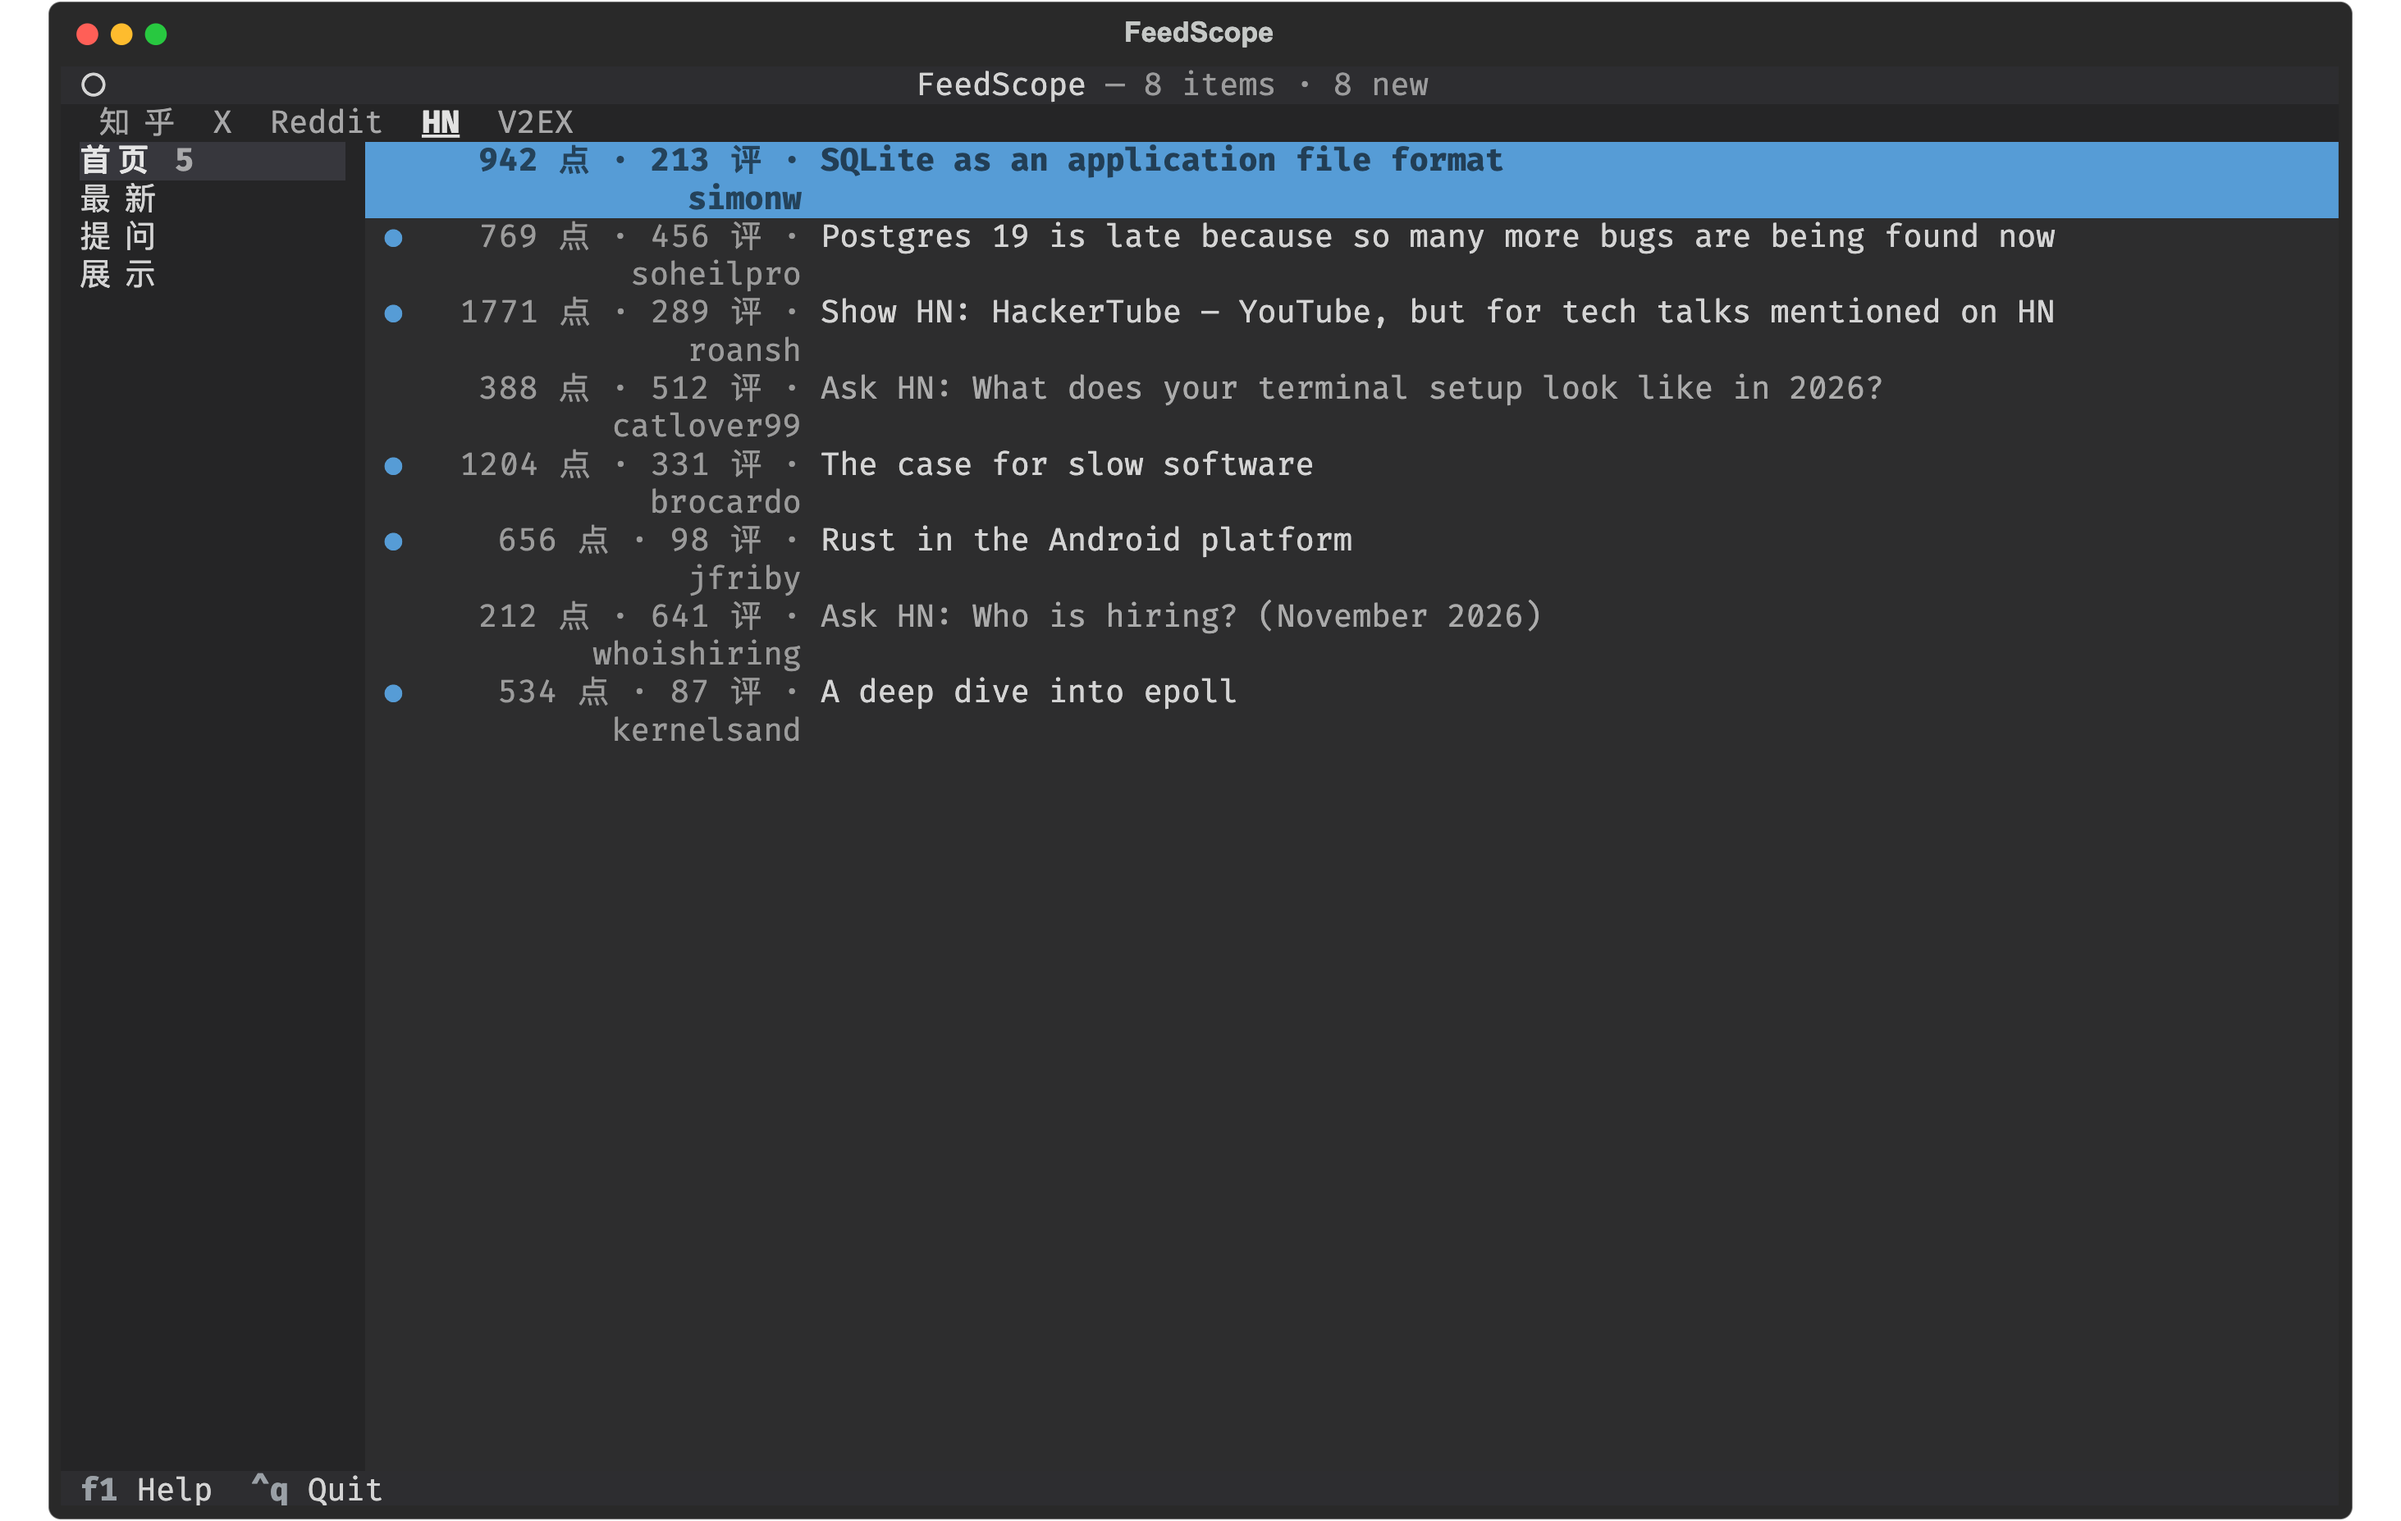
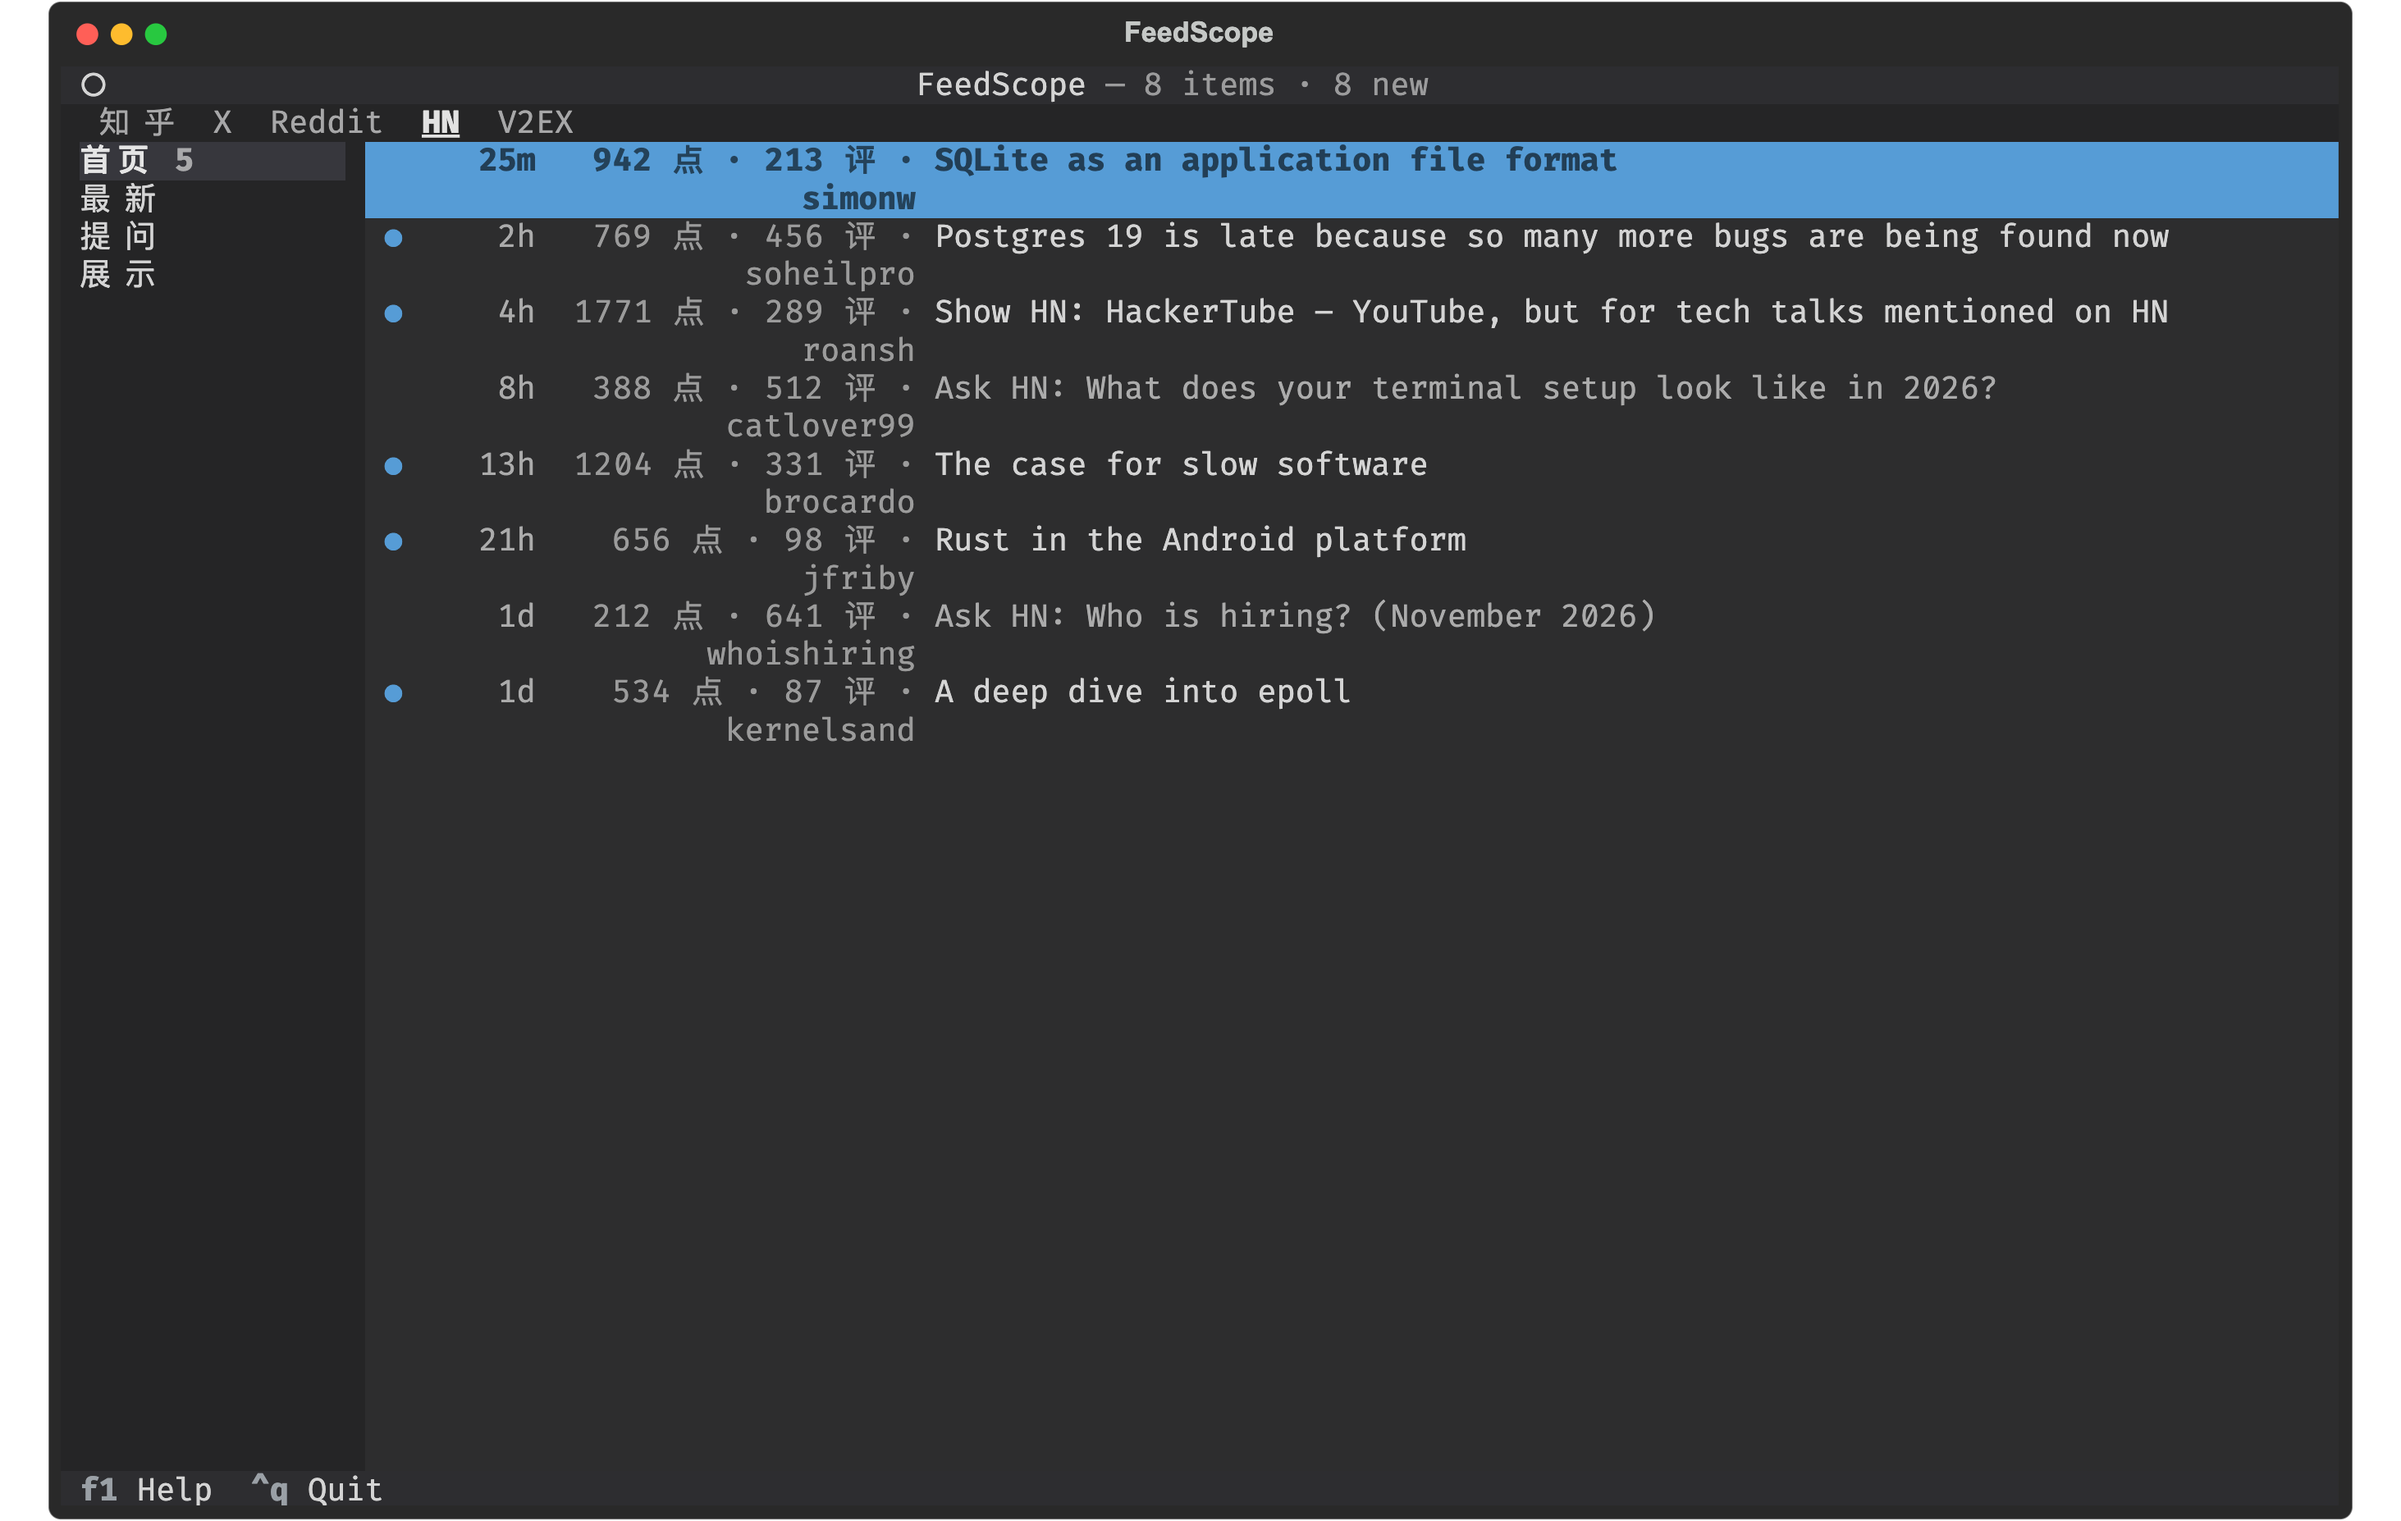
测试补齐两件 + 发版 0.4.0。测试盲区：answer 屏评论首载失败路径（0.3.1 修的就是这条链路别吞信号，但失败态 UI 从没有过钉子）与详情屏换篇到边反馈——前者当场逮到一个潜伏真 bug：_swap_status 把部件 id 当 CSS 选择器传（"cm-loading" 漏了 #），评论失败动线的行内重试提示第一次换文案就把 worker 炸成 InvalidQueryFormat——0.3.1 上线以来这个失败态只在 resize 重绘时才可见，就地修复（失败文案常驻 + Ctrl+N 重试回正常 loader 有端到端钉子了）；到边反馈钉住「最后一篇再 → toast 

Changed region(s): [[0.1866, 0.0922, 0.9019, 0.4919], [0.1866, 0.2767, 0.2177, 0.3074]]

diff --git a/tests/test_tui_smoke.py b/tests/test_tui_smoke.py
@@ -19,7 +19,7 @@ from typing import ClassVar
 import pytest
 from conftest import last_notification, settle
 from textual.containers import VerticalScroll
-from textual.widgets import ListItem, Markdown, SelectionList
+from textual.widgets import ListItem, Markdown, SelectionList, Static
 
 import feedscope.sources  # noqa: F401  先触发真实源注册
 from feedscope.core.models import Answer, Comment, DetailDoc, FeedItem
@@ -1245,3 +1245,69 @@ def test_detail_initially_done_shows_eof(stub_registry, monkeypatch) -> None:
 
 def test_prelayout_render_recovers_on_first_resize(stub_registry) -> None:
     asyncio.run(_run_prelayout_render_recovery_flow())
+
+
+def test_answer_comments_failure_and_retry(stub_registry, monkeypatch) -> None:
+    """评论首载失败（0.3.1 修的就是这条链路别吞信号）：失败文案常驻 + Ctrl+N 重试
+    换回正常 loader——评论层失败不连带楼层内容消失。"""
+    asyncio.run(_run_answer_comments_failure(monkeypatch))
+
+
+async def _run_answer_comments_failure(monkeypatch) -> None:
+    from feedscope.core.source import SourceError
+
+    calls = {"n": 0}
+
+    async def flaky_comments(self, index: int):
+        calls["n"] += 1
+        if calls["n"] == 1:
+            raise SourceError("评论接口 403")
+        return StubCommentsLoader()
+
+    monkeypatch.setattr(StubDetailLoader, "open_comments", flaky_comments)
+
+    app = FeedScopeApp()
+    async with app.run_test(size=(90, 36)) as pilot:
+        assert await settle(pilot, lambda: len(app.main.items) == 3)
+        await pilot.press("enter")
+        detail = app.screen
+        assert isinstance(detail, DetailScreen)
+        assert await settle(pilot, lambda: detail._rendered)
+        await pilot.press("enter")
+        answer = app.screen
+        assert isinstance(answer, AnswerScreen)
+        assert await settle(pilot, lambda: answer._comments_error is not None)
+        assert "403" in answer._comments_error, "_comments_error 存原始失败文案"
+        status = str(answer.query_one("#cm-loading", Static).content)
+        assert "评论加载失败" in status and "Ctrl+N" in status, "状态行带重试指路"
+
+        await pilot.press("ctrl+n")  # 重试：这次成功
+        assert await settle(
+            pilot, lambda: answer.loader is not None and answer._comments_error is None
+        ), "重试换回正常 loader"
+        assert await settle(
+            pilot, lambda: len(answer.loader.comments) >= 2
+        ), "评论批已挂载"
+
+
+def test_detail_step_boundary_feedback(stub_registry) -> None:
+    """详情屏 ←/→ 换篇的到边反馈：最后一篇再 → 给 toast、选中位不动
+    （step_readable_item 到边返回 None 的 UI 侧出口）。"""
+    asyncio.run(_run_step_boundary())
+
+
+async def _run_step_boundary() -> None:
+    from textual.widgets import ListView
+
+    app = FeedScopeApp()
+    async with app.run_test(size=(90, 36)) as pilot:
+        assert await settle(pilot, lambda: len(app.main.items) == 3)
+        view = app.query_one("#feed", ListView)
+        view.index = 2  # 直接停在最后一行（全部可进详情）
+        await pilot.press("enter")
+        detail = app.screen
+        assert isinstance(detail, DetailScreen)
+        assert await settle(pilot, lambda: detail._rendered)
+        await pilot.press("right")  # 已是最后一篇
+        assert last_notification(app) == "后面没有可读的了"
+        assert isinstance(app.screen, DetailScreen), "到边不弹回列表"

diff --git a/scripts/screenshot.py b/scripts/screenshot.py
@@ -23,6 +23,7 @@ import os
 import re
 import subprocess
 import tempfile
+import time
 from collections import Counter
 from pathlib import Path
 from typing import ClassVar
@@ -347,7 +348,10 @@ _HN = [
 ]
 
 
-def _hn_item(title: str, meta: str, kind: str) -> FeedItem:
+def _hn_item(title: str, meta: str, kind: str, i: int = 0) -> FeedItem:
+    # HN 首页本就按时间排：相对时间列（0.4.0）在这里出镜。年龄档位取真实
+    # 首页质感（25m → 1d+ 递增），不是均匀假数
+    ages = (1500, 7600, 15_900, 29_000, 47_000, 76_000, 105_000, 140_000)
     return FeedItem(
         source="hn",
         id=str(abs(hash(title)) % 10**9),
@@ -355,6 +359,7 @@ def _hn_item(title: str, meta: str, kind: str) -> FeedItem:
         url="https://example.com/article",
         kind=kind,
         meta=meta,
+        published=time.time() - ages[i % len(ages)],
     )
 
 
@@ -634,7 +639,7 @@ class DemoHn(Source):
     comment_unit_label = "回复"
 
     async def open_feed(self, name: str) -> FeedLoader:
-        return StaticFeedLoader([_hn_item(t, m, k) for t, m, k in _HN])
+        return StaticFeedLoader([_hn_item(t, m, k, i) for i, (t, m, k) in enumerate(_HN)])
 
     async def open_detail(self, item: FeedItem) -> DetailLoader:
         return DemoHnDetail()

diff --git a/src/feedscope/ui/screens/answer.py b/src/feedscope/ui/screens/answer.py
@@ -225,7 +225,7 @@ class AnswerScreen(PagedReadingScreen):
             self._comments_error = feedback.failure_text(self.source, exc)
             feedback.fail(self.app, self.source, exc, action="feedback.action_comments_failed")
             self._swap_status(
-                "cm-loading",
+                "#cm-loading",  # 带 #：query 吃 CSS 选择器，裸 id 串会 InvalidQueryFormat
                 f"[red]{t('read.comments_failed_retry', text=escape(self._comments_error))}[/red]",
             )
             return

diff --git a/src/feedscope/__init__.py b/src/feedscope/__init__.py
@@ -1,3 +1,3 @@
 """FeedScope（观流）：终端信息流聚合阅读器（知乎 / X / Reddit / HN / V2EX / RSS / Telegram）。"""
 
-__version__ = "0.3.1"
+__version__ = "0.4.0"

diff --git a/CHANGELOG.md b/CHANGELOG.md
@@ -7,6 +7,28 @@ and this project adheres to [Semantic Versioning](https://semver.org/spec/v2.0.0
 
 ## [Unreleased]
 
+## [0.4.0] - 2026-11-20
+
+### Added
+
+- Time awareness in list rows: feeds that carry timestamps (RSS / Telegram / HN / V2EX / X) show a right-aligned relative-time column (`25m` / `4h` / `2d`, then `MM-DD` / `YY-MM`); sources without list timestamps (Zhihu hot) keep the old layout. A new `timezone` config key (IANA name; default stays Beijing UTC+8) renders every timestamp in the chosen zone
+- `/` filters the current list by title (case-insensitive substring; empty input clears the filter, Esc leaves it untouched) — on the main list and the favorites list, composing with `F4` unread-only (both filters show a dedicated empty-state hint)
+- `]` / `[` jump to the next / previous unread item, wrapping around the current feed (same keys as floor-stepping in reply layers); all-read gives a toast
+- Self-diagnosis logging: every run writes a rotating log file (INFO by default, `--verbose` for DEBUG, `--log-file <path>` to relocate, subcommands mirror to stderr under `--verbose`) — fetch failures with tracebacks, self-heal fallbacks (X queryId re-harvest etc.) and login-detector errors all land there; `feedscope doctor` prints the location
+- `F2` source manager: `,` / `.` nudges the highlighted source's position (numbers re-sequence instantly; untick-then-tick still moves to the end)
+- Favorites list paginates (100 rows per page, `Ctrl+N` loads the next page; the status line shows how many are displayed) — thousands of favorites no longer freeze the screen on open
+- CLI: `--version`, `feedscope cache [clear]` (report / wipe the derived list cache, lossless), `feedscope rss rename <key> <name>`
+
+### Changed
+
+- Saving from the TUI (first-run / `F2` / `Ctrl+L` / `Ctrl+T` / subscription changes) now round-trips `sources.toml` with tomlkit: hand-written comments, unknown keys and formatting survive verbatim and only managed keys change (previously the file was re-rendered from scratch, silently dropping them); the standard header comment is added only to newly created files
+- Toolchain baseline: type checking runs mypy `strict` (src keeps zero `type: ignore`); lint rules extended with bugbear / pyupgrade / isort / simplify / ruff-natives
+
+### Fixed
+
+- The in-place "comments failed · Ctrl+N retry" hint never actually appeared: the status swap queried the widget id as a CSS selector (`cm-loading` instead of `#cm-loading`), killing the worker with `InvalidQueryFormat` — the failure state only showed up after a resize repaint
+- The favorites screen could mount duplicate rows when a filter dialog dismissed into a resume rebuild (two `clear`/`extend` cycles interleaving); rebuilds now coalesce through a single scheduler
+
 ## [0.3.1] - 2026-11-10
 
 ### Fixed
